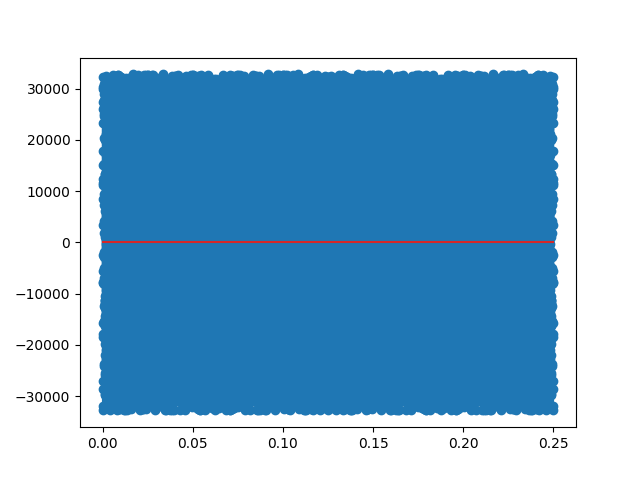
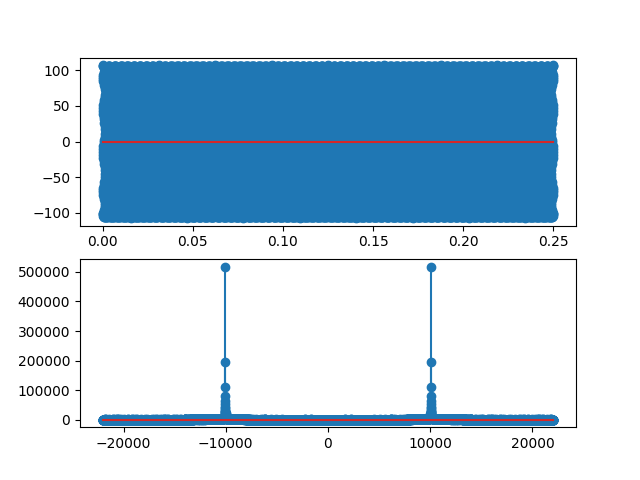
Agregado el espectro en frecuencia, falta mejorar el detalle de la Señal

diff --git a/Kivy.py b/Kivy.py
@@ -85,6 +85,8 @@ class LoginScreen(Screen):
 
             fre=int(Frecuency)
             amp=int(Amplitud)
+            print(amp)
+            print(fre)
         except Exception as e:
             print(e)
             print("Error")
@@ -97,7 +99,7 @@ class LoginScreen(Screen):
         b=np.linspace(0,1 , int(fs*T))
         b=T*b
 
-        senal=(amp*4096*np.cos(2*np.pi*b*fre)).astype(np.int16)
+        senal=(amp*np.cos(2*np.pi*b*fre)).astype(np.int16)
        
        
         senal2=np.c_[senal,senal]
@@ -108,18 +110,37 @@ class LoginScreen(Screen):
         sound.stop()
 
        
-        fig, ax = plt.subplots()
+        fig, ax = plt.subplots(2)
+
+        # Señal En tiempo
+
+        ax[0].stem(b, senal)
+
+        # Señal en Frecuencia
+
+
+        fy=np.abs(np.fft.fft(senal))
+        xy=np.linspace(-fs/2,fs/2 , len(fy))
+
+
+        ax[1].stem(xy,fy)
+
+
+        
         
 
-        ax.stem(b, senal)
+
+        
+
+        
       
         plt.savefig('Formato.png')
-        Picture.imagenes()
+        
         image.source='Formato.png'
         image.reload()
+
+        plt.close()
         
-        
-        time.sleep(1)
 
 
     def callback(self):
